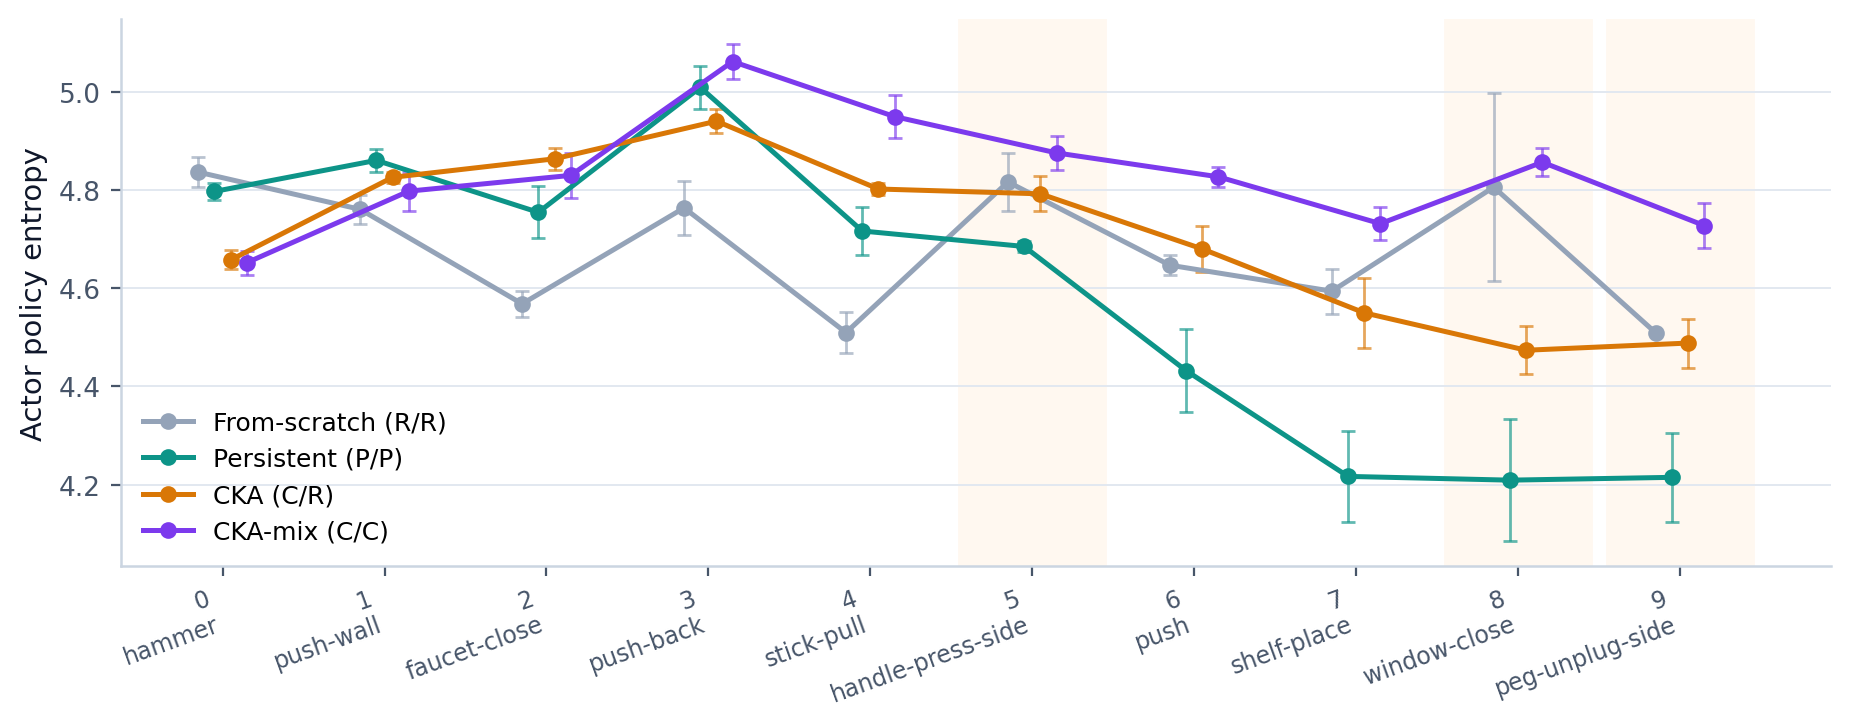
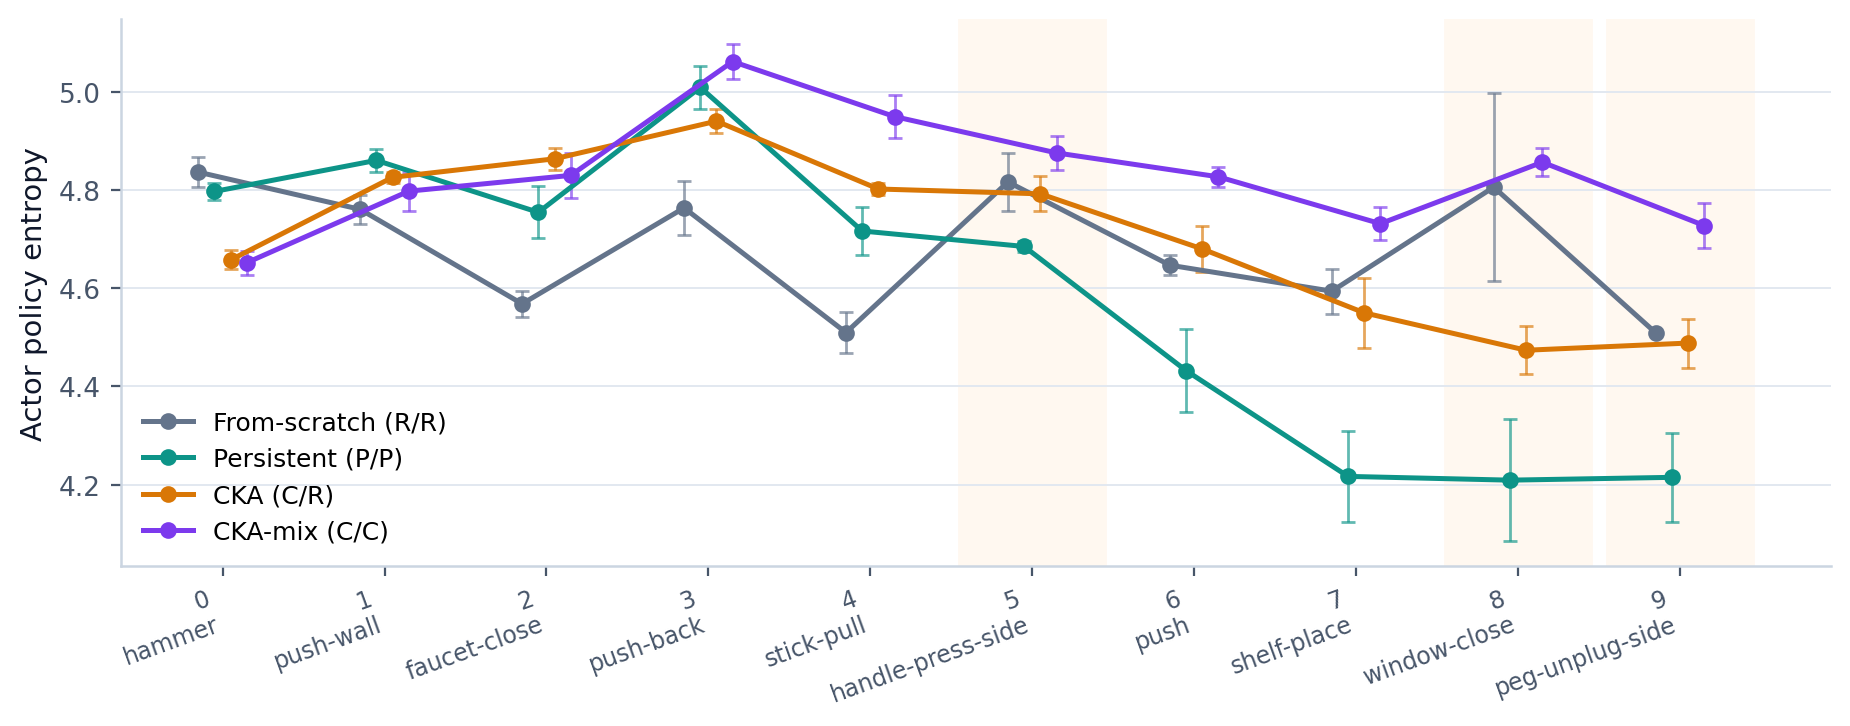
render_appendix_figs: darken slate so from-scratch line reads against white

diff --git a/results/scripts/render_appendix_figs.py b/results/scripts/render_appendix_figs.py
@@ -24,7 +24,8 @@ OUT.mkdir(parents=True, exist_ok=True)
 INK = "#0f172a"
 INK_LIGHT = "#475569"
 GRID = "#e2e8f0"
-SLATE = "#94a3b8"
+# Darkened slate so the from-scratch line reads against white.
+SLATE = "#64748b"
 TEAL = "#0d9488"
 AMBER = "#d97706"
 ROSE = "#be123c"
